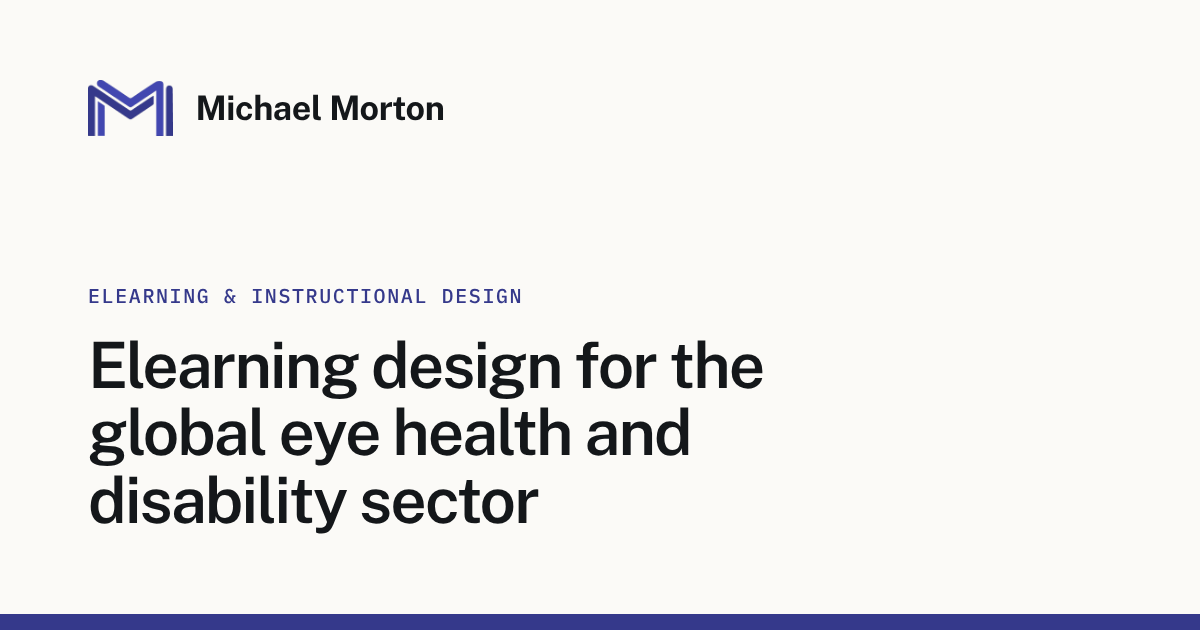
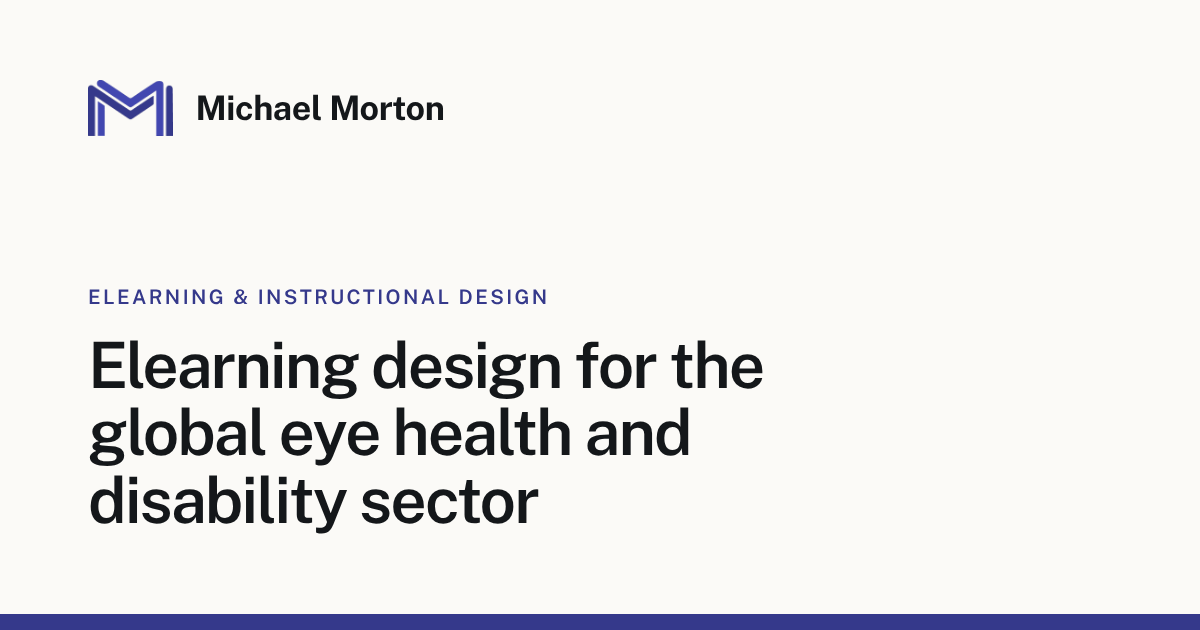
Replace IBM Plex Mono labels with Public Sans
Eyebrow, case and pillar numbers, and case-study labels now use the body
font as small tracked semibold caps. Drops the second web font download.
Social preview image re-rendered to match.

Claude-Session: https://claude.ai/code/session_01KiLj38VFydJ68Mf7Reeig6

Changed region(s): [[0.0617, 0.4524, 0.4625, 0.4825]]

diff --git a/index.html b/index.html
@@ -31,7 +31,7 @@
 </script>
 <link rel="preconnect" href="https://fonts.googleapis.com">
 <link rel="preconnect" href="https://fonts.gstatic.com" crossorigin>
-<link href="https://fonts.googleapis.com/css2?family=IBM+Plex+Mono:wght@400;500&family=Public+Sans:wght@400;500;600;700&display=swap" rel="stylesheet">
+<link href="https://fonts.googleapis.com/css2?family=Public+Sans:wght@400;500;600;700&display=swap" rel="stylesheet">
 <style>
   :root {
     --ink: #14171A;
@@ -44,7 +44,6 @@
     --indigo-tint: #ECECF6;
     --indigo-soft: #C6C7E8;
     --line: #E4E0D8;
-    --mono: 'IBM Plex Mono', ui-monospace, monospace;
     --sans: 'Public Sans', Helvetica, Arial, sans-serif;
     --gutter: clamp(20px, 5vw, 40px);
     --section: clamp(64px, 10vw, 112px);
@@ -78,8 +77,8 @@
   .section { padding-block: var(--section); }
 
   .eyebrow {
-    font-family: var(--mono); font-size: 13px; font-weight: 500;
-    letter-spacing: 0.08em; text-transform: uppercase; color: var(--indigo);
+    font-size: 13px; font-weight: 600;
+    letter-spacing: 0.12em; text-transform: uppercase; color: var(--indigo);
   }
   .label {
     font-size: 15px; font-weight: 600; letter-spacing: 0.02em; color: var(--ink-3);
@@ -120,7 +119,7 @@
     display: flex; justify-content: space-between; gap: 16px; align-items: baseline;
     padding-block: 12px; color: var(--ink); text-decoration: none; font-weight: 500;
   }
-  .hero-aside li a span { font-family: var(--mono); font-size: 13px; color: var(--ink-3); }
+  .hero-aside li a span { font-size: 13px; font-variant-numeric: tabular-nums; color: var(--ink-3); }
   .hero-aside li a:hover { color: var(--indigo); }
   .hero-aside li a:hover span { color: var(--indigo); }
   .hero h1 {
@@ -137,7 +136,6 @@
   }
   .btn-primary { background: var(--indigo); color: var(--paper); }
   .btn-primary:hover { background: var(--ink); color: var(--paper); }
-  .btn .arrow { font-family: var(--mono); }
 
   /* Split rows: label beside content on wide screens, stacked on narrow */
   .split { display: grid; gap: 16px; }
@@ -174,7 +172,7 @@
   @media (min-width: 960px) {
     .case { grid-template-columns: 280px minmax(0, 1fr); gap: 56px; }
   }
-  .case-num { font-family: var(--mono); font-size: 13px; color: var(--ink-3); margin-bottom: 10px; display: block; }
+  .case-num { font-size: 13px; font-weight: 600; letter-spacing: 0.06em; font-variant-numeric: tabular-nums; color: var(--ink-3); margin-bottom: 10px; display: block; }
   .case h3 { font-size: clamp(21px, 2.2vw, 24px); font-weight: 600; letter-spacing: -0.015em; color: var(--indigo); line-height: 1.25; }
   .case-title { font-size: 16px; color: var(--ink-2); margin-top: 6px; }
   .case-project-link { font-size: 15px; font-weight: 600; margin-top: 18px; }
@@ -184,8 +182,8 @@
     .case dl > div { grid-template-columns: 130px minmax(0, 1fr); gap: 20px; }
   }
   .case dt {
-    font-family: var(--mono); font-size: 12px; font-weight: 500;
-    letter-spacing: 0.1em; text-transform: uppercase; color: var(--indigo); padding-top: 3px;
+    font-size: 12px; font-weight: 600;
+    letter-spacing: 0.12em; text-transform: uppercase; color: var(--indigo); padding-top: 3px;
   }
   .case dd { margin: 0; font-size: 16px; line-height: 1.65; color: var(--ink-2); max-width: 64ch; }
 
@@ -194,7 +192,7 @@
   .pillars { display: grid; gap: 40px 56px; list-style: none; margin: 0; padding: 0; }
   @media (min-width: 720px) { .pillars { grid-template-columns: repeat(2, minmax(0, 1fr)); } }
   .pillar { border-top: 1px solid #D5D7E6; padding-top: 22px; display: grid; gap: 12px; align-content: start; }
-  .pillar-num { font-family: var(--mono); font-size: 13px; color: var(--indigo); }
+  .pillar-num { font-size: 13px; font-weight: 600; letter-spacing: 0.06em; font-variant-numeric: tabular-nums; color: var(--indigo); }
   .pillar h3 { font-size: 21px; font-weight: 600; letter-spacing: -0.015em; line-height: 1.3; }
   .pillar p { font-size: 16px; line-height: 1.65; color: var(--ink-2); max-width: 52ch; text-wrap: pretty; }
 
